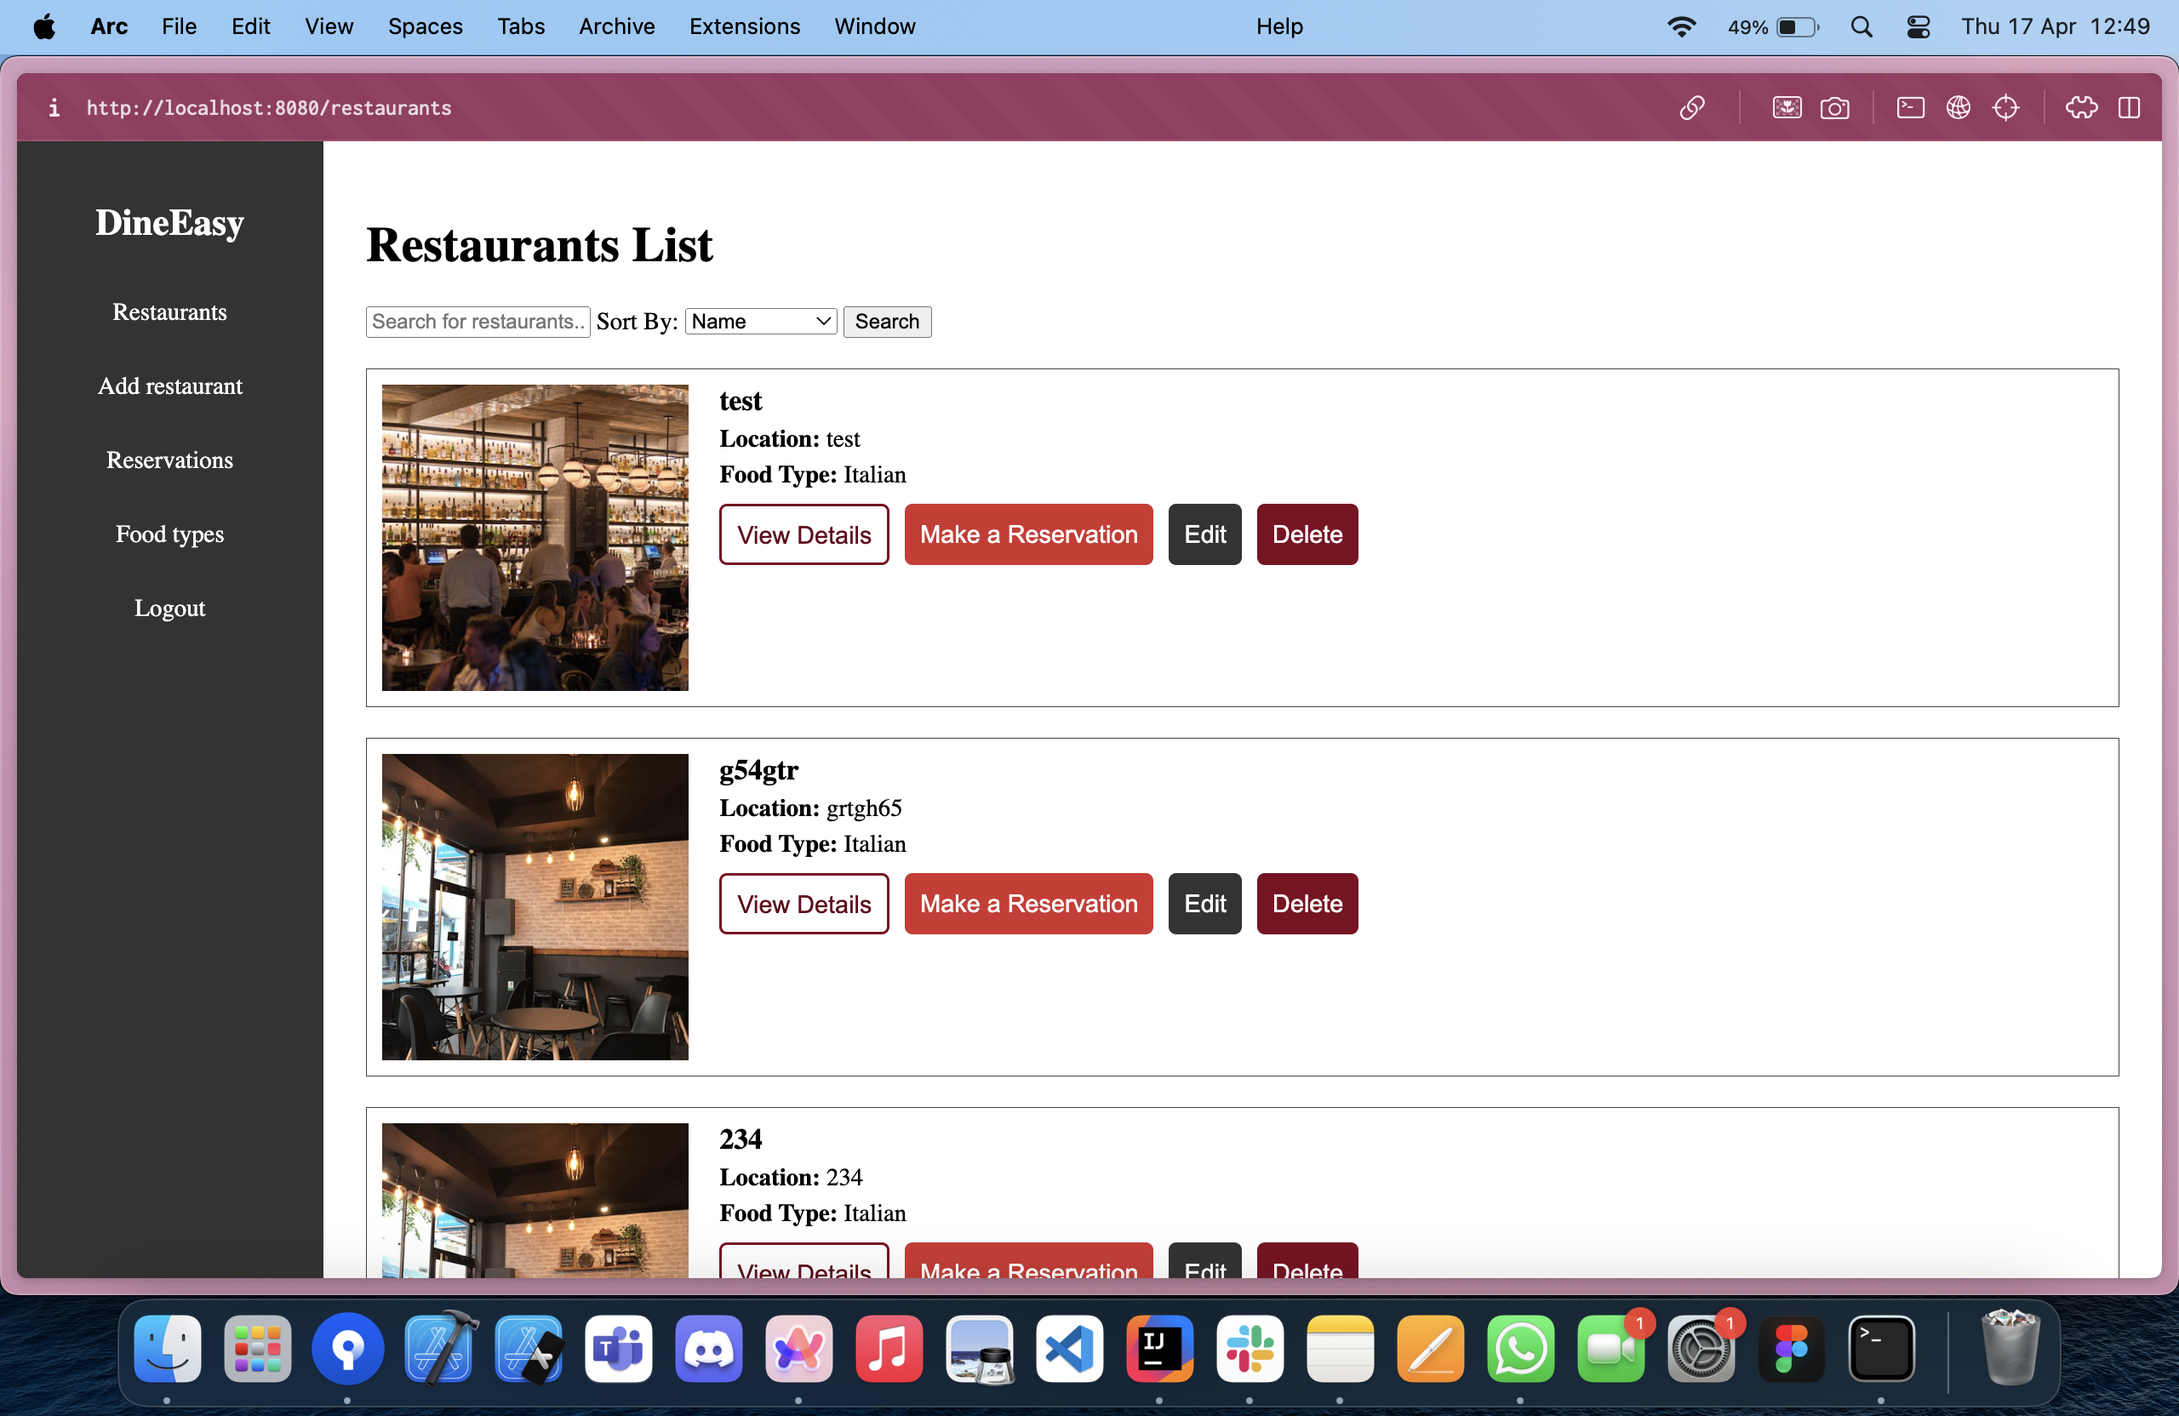
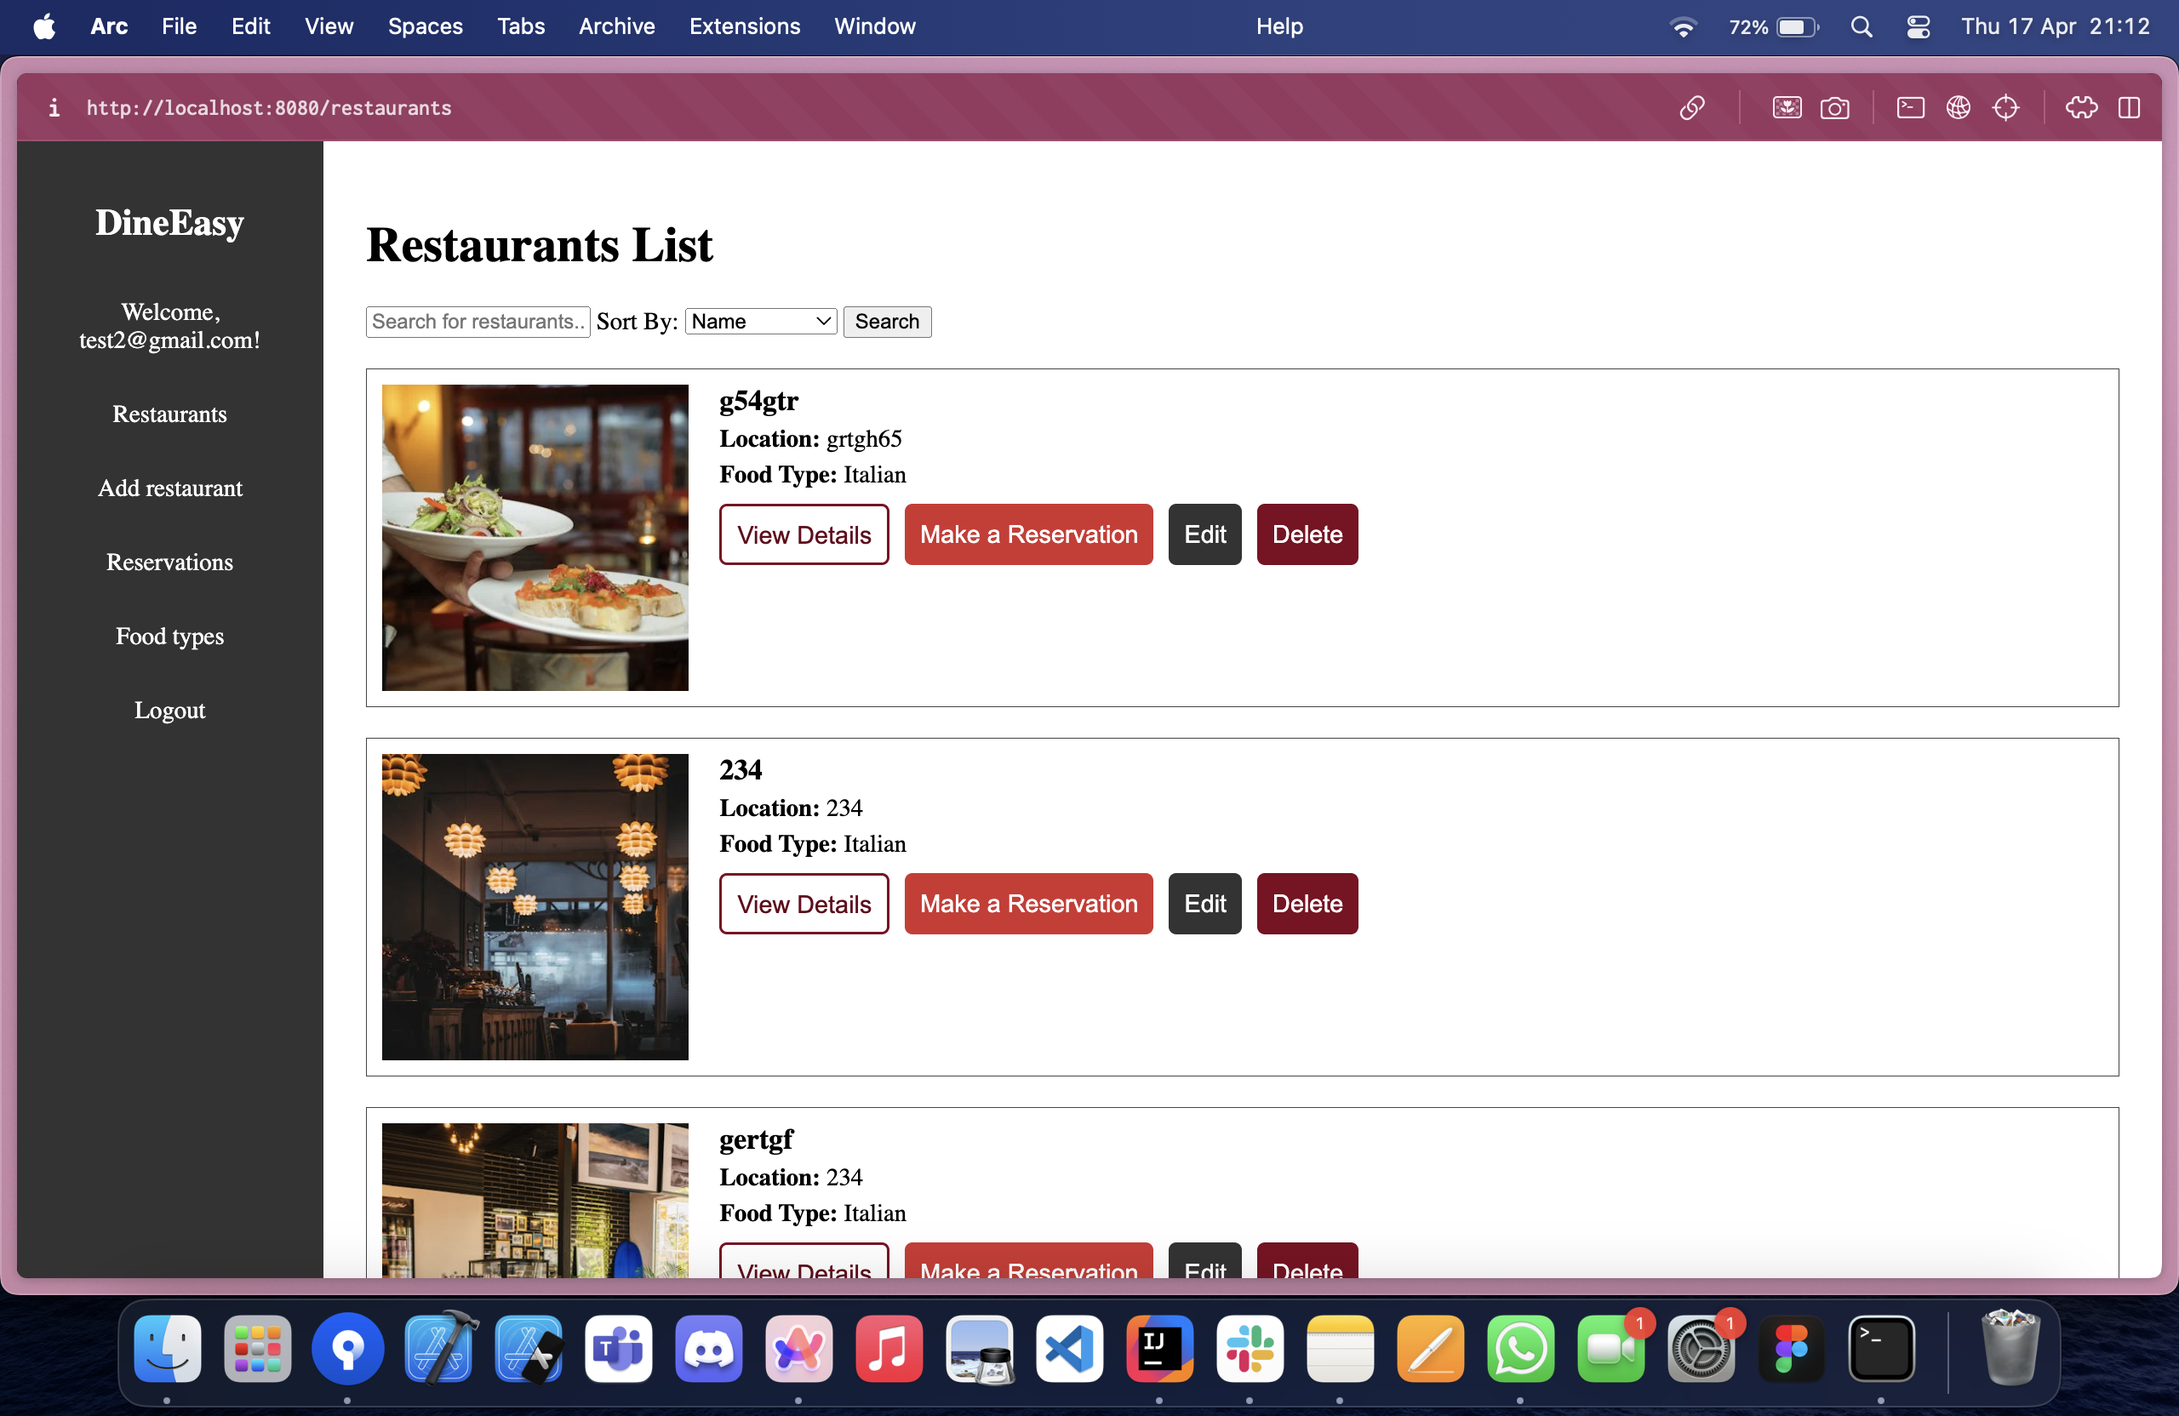
last fixes on auth + readme

diff --git a/src/main/java/com/restaurant/reservation/SecurityConfig.java b/src/main/java/com/restaurant/reservation/SecurityConfig.java
@@ -1,46 +1,72 @@
 package com.restaurant.reservation;
 
 import com.restaurant.reservation.service.CustomUserDetailsService;
+import jakarta.servlet.ServletException;
+import jakarta.servlet.http.HttpServletRequest;
+import jakarta.servlet.http.HttpServletResponse;
 import org.springframework.beans.factory.annotation.Autowired;
 import org.springframework.context.annotation.Bean;
 import org.springframework.context.annotation.Configuration;
 import org.springframework.security.authentication.AuthenticationManager;
+import org.springframework.security.authentication.dao.DaoAuthenticationProvider;
 import org.springframework.security.config.Customizer;
 import org.springframework.security.config.annotation.authentication.configuration.AuthenticationConfiguration;
 import org.springframework.security.config.annotation.web.builders.HttpSecurity;
 import org.springframework.security.config.annotation.web.configuration.EnableWebSecurity;
 import org.springframework.security.config.annotation.web.configurers.AbstractHttpConfigurer;
+import org.springframework.security.core.Authentication;
 import org.springframework.security.crypto.bcrypt.BCryptPasswordEncoder;
 import org.springframework.security.crypto.password.PasswordEncoder;
 import org.springframework.security.web.SecurityFilterChain;
+import org.springframework.security.web.authentication.AuthenticationFailureHandler;
+import org.springframework.security.web.authentication.AuthenticationSuccessHandler;
 import org.springframework.security.web.authentication.logout.CookieClearingLogoutHandler;
+import org.springframework.stereotype.Component;
+
+import java.io.IOException;
 
 @Configuration
 @EnableWebSecurity
 public class SecurityConfig {
-
-
     private CustomUserDetailsService customUserDetailsService;
     @Autowired
     public SecurityConfig(CustomUserDetailsService customUserDetailsService) {
         this.customUserDetailsService = customUserDetailsService;
     }
     @Bean
-    public SecurityFilterChain securityFilterChain(HttpSecurity http) throws Exception {
+    public SecurityFilterChain securityFilterChain(HttpSecurity http, CustomAuthenticationSuccessHandler successHandler, CustomAuthenticationFailureHandler failureHandler) throws Exception {
         http
                 .csrf(AbstractHttpConfigurer::disable)
                 .authorizeHttpRequests(
                         auth -> auth
                                 .anyRequest().permitAll()
-                        // .requestMatchers("/auth/login", "/auth/register").permitAll()
+                )
+                .formLogin(form -> form
+                        .loginPage("/auth/login")
+                        .loginProcessingUrl("/auth/login") // POST request path
+                        .successHandler(successHandler)
+                        .failureHandler(failureHandler)
+                        .permitAll()
                 )
                 .logout(logout -> logout
+                        .logoutUrl("/auth/logout")
+                        .logoutSuccessUrl("/auth/login?logout")
                         .addLogoutHandler(securityContextLogoutHandler())
-                        .logoutSuccessUrl("/auth/login")
                         .deleteCookies("JSESSIONID")
+                        .invalidateHttpSession(true)
+                        .clearAuthentication(true)
+                        .permitAll()
                 )
                 .httpBasic(Customizer.withDefaults());
         return http.build();
+    }
+
+    @Bean
+    public DaoAuthenticationProvider authenticationProvider() {
+        DaoAuthenticationProvider provider = new DaoAuthenticationProvider();
+        provider.setUserDetailsService(customUserDetailsService);
+        provider.setPasswordEncoder(passwordEncoder());
+        return provider;
     }
 
     @Bean
@@ -56,5 +82,26 @@ public class SecurityConfig {
     @Bean
     public CookieClearingLogoutHandler securityContextLogoutHandler() {
         return new CookieClearingLogoutHandler("JSESSIONID");
+    }
+
+    @Component
+    public static class CustomAuthenticationSuccessHandler implements AuthenticationSuccessHandler {
+        @Override
+        public void onAuthenticationSuccess(HttpServletRequest request, HttpServletResponse response, Authentication authentication) throws IOException, ServletException {
+            response.sendRedirect("/restaurants"); // Redirect to restaurants on success
+
+        }
+    }
+
+    @Component
+    public static class CustomAuthenticationFailureHandler implements AuthenticationFailureHandler {
+
+        @Override
+        public void onAuthenticationFailure(HttpServletRequest request,
+                                            HttpServletResponse response,
+                                            org.springframework.security.core.AuthenticationException exception)
+                throws IOException, ServletException {
+            response.sendRedirect("/auth/login?error=" + exception.getMessage());
+        }
     }
 }

diff --git a/micro-services/auth-service/src/main/java/com/restaurant/reservation/authservice/controller/AuthController.java b/micro-services/auth-service/src/main/java/com/restaurant/reservation/authservice/controller/AuthController.java
@@ -21,8 +21,6 @@ import org.springframework.web.bind.annotation.RequestParam;
 import org.springframework.web.util.UriUtils;
 
 import java.nio.charset.StandardCharsets;
-import java.util.HashMap;
-import java.util.Map;
 import java.util.Optional;
 
 @Controller
@@ -39,62 +37,45 @@ public class AuthController {
     @Autowired
     private CustomUserDetailsService customUserDetailsService;
 
-    @PostMapping("/login")
-    public Map<String, String> loginUser(
-            @RequestParam String email,
-            @RequestParam String password) {
+    @GetMapping("/login")
+    public String login() {
+        return "login";
+    }
 
-        Optional<User> user = userService.getUserByEmail(email);
-        Map<String, String> response = new HashMap<>();
+    @GetMapping("/register")
+    public String register(
+            @RequestParam(value = "error", required = false) String error,
+            @RequestParam(value = "email", required = false) String email,
+            Model model) {
 
-        if (user.isEmpty()) {
-            response.put("error", "Email not found");
-            return response;
+        log.info("Registering new user: {}", email);
+        if(email != null && error.equals("email")) {
+            model.addAttribute("email", email);
         }
 
-        if (!passwordEncoder.matches(password, user.get().getPassword())) {
-            response.put("error", "Invalid password");
-            return response;
-        }
+        log.info("Registering new user: {}", model);
 
-        log.info("Fetching User By Email: {}", user);
-
-        Authentication authentication = authenticationManager.authenticate(
-                new UsernamePasswordAuthenticationToken(email, password)
-        );
-        SecurityContextHolder.getContext().setAuthentication(authentication);
-
-        response.put("message", "Login successful");
-        response.put("user", user.get().getEmail());
-        return response;
+        return "register";
     }
 
     @PostMapping("/register")
-    public Map<String, String> registerUser(
+    public String registerUser(
             @RequestParam String email,
             @RequestParam String name,
             @RequestParam String phone,
             @RequestParam String password) {
 
-        Map<String, String> response = new HashMap<>();
-
-        if (userService.getUserByEmail(email).isPresent()) {
-            response.put("error", "Email already in use");
-            return response;
+        boolean userExists = userService.getUserByEmail(email).isPresent();
+        log.info(userExists ? "User exists" : "User not found");
+        if (!userExists) {
+            User user = userService.addUser(new User(name, email, phone, password));
+            log.info("User registered: {}", user);
+            return "redirect:/auth/login";
+        } else {
+            return "redirect:/auth/register?error=email&email=" + UriUtils.encode(email, StandardCharsets.UTF_8);
         }
-
-        User user = userService.addUser(new User(name, email, phone, password));
-        response.put("message", "User registered successfully");
-        response.put("user", user.getEmail());
-
-        return response;
     }
 
-    @PostMapping("/logout")
-    public Map<String, String> logout(HttpServletRequest request) {
-        SecurityContextHolder.clearContext();
-        Map<String, String> response = new HashMap<>();
-        response.put("message", "Logged out successfully");
-        return response;
-    }
+    @GetMapping("/logout")
+    public String logout() { return "logout"; }
 }

diff --git a/src/main/java/com/restaurant/reservation/controller/AuthController.java b/src/main/java/com/restaurant/reservation/controller/AuthController.java
@@ -42,36 +42,6 @@ public class AuthController {
         return "login";
     }
 
-    @PostMapping("/login")
-    public String loginUser(
-            @RequestParam String email,
-            @RequestParam String password,
-            HttpServletRequest request) {
-
-        Optional<User> user = userService.getUserByEmail(email);
-
-        log.info("Fetching User By Email: {}", user);
-        if(user.isEmpty())
-            return "redirect:/auth/register?error=email&email=" + UriUtils.encode(email, StandardCharsets.UTF_8);
-        else {
-            log.info("Password {}, hashed passowrd {}", passwordEncoder.encode(password), user.get().getPassword());
-            if (!passwordEncoder.matches(password, user.get().getPassword())) {
-                return "redirect:/auth/login?error=" + UriUtils.encode("This email/password combination is not correct", StandardCharsets.UTF_8);
-            } else {
-                log.info("User logged: {}", user);
-
-                Authentication authentication = authenticationManager.authenticate(new UsernamePasswordAuthenticationToken(
-                        email, password
-                ));
-
-                SecurityContextHolder.getContext().setAuthentication(authentication);
-                    return "redirect:/restaurants";
-
-            }
-        }
-
-    }
-
     @GetMapping("/register")
     public String register(
             @RequestParam(value = "error", required = false) String error,
@@ -95,13 +65,14 @@ public class AuthController {
             @RequestParam String phone,
             @RequestParam String password) {
 
-        User user = userService.addUser(new User(name, email, phone, password));
-
-        log.info("User registered: {}", user);
-        if (user != null) {
-            return "redirect:/restaurants";
+        boolean userExists = userService.getUserByEmail(email).isPresent();
+        log.info(userExists ? "User exists" : "User not found");
+        if (!userExists) {
+            User user = userService.addUser(new User(name, email, phone, password));
+            log.info("User registered: {}", user);
+            return "redirect:/auth/login";
         } else {
-            return "redirect:/register?error=email&email=" + UriUtils.encode(email, StandardCharsets.UTF_8);
+            return "redirect:/auth/register?error=email&email=" + UriUtils.encode(email, StandardCharsets.UTF_8);
         }
     }
 

diff --git a/src/main/java/com/restaurant/reservation/WebConfig.java b/src/main/java/com/restaurant/reservation/WebConfig.java
@@ -1,13 +1,27 @@
 package com.restaurant.reservation;
 
 import org.springframework.context.annotation.Configuration;
+import org.springframework.web.servlet.config.annotation.InterceptorRegistry;
 import org.springframework.web.servlet.config.annotation.ViewResolverRegistry;
 import org.springframework.web.servlet.config.annotation.WebMvcConfigurer;
 
 @Configuration
 public class WebConfig implements WebMvcConfigurer {
+    public WebConfig(com.restaurant.reservation.middleware.LoginRequiredInterceptor loginRequiredInterceptor) {
+        this.loginRequiredInterceptor = loginRequiredInterceptor;
+    }
+
     @Override
     public void configureViewResolvers(ViewResolverRegistry registry) {
         registry.jsp("/WEB-INF/views/", ".jsp");
+    }
+
+    private final com.restaurant.reservation.middleware.LoginRequiredInterceptor loginRequiredInterceptor;
+
+    @Override
+    public void addInterceptors(InterceptorRegistry registry) {
+        registry.addInterceptor(loginRequiredInterceptor)
+                .addPathPatterns("/restaurants/**", "/reservation/**", "/foodtypes/**") // secure routes
+                .excludePathPatterns("/auth/**", "/css/**", "/js/**", "/restaurants"); // public stuff
     }
 }

diff --git a/src/main/java/com/restaurant/reservation/middleware/LoginRequiredInterceptor.java b/src/main/java/com/restaurant/reservation/middleware/LoginRequiredInterceptor.java
@@ -1,0 +1,27 @@
+package com.restaurant.reservation.middleware;
+
+import jakarta.servlet.http.HttpServletRequest;
+import jakarta.servlet.http.HttpServletResponse;
+import org.springframework.security.core.Authentication;
+import org.springframework.security.core.context.SecurityContextHolder;
+import org.springframework.stereotype.Component;
+import org.springframework.web.servlet.HandlerInterceptor;
+
+@Component
+public class LoginRequiredInterceptor implements HandlerInterceptor {
+
+    @Override
+    public boolean preHandle(HttpServletRequest request, HttpServletResponse response, Object handler) throws Exception {
+
+        Authentication auth = SecurityContextHolder.getContext().getAuthentication();
+
+        boolean isLoggedIn = auth != null && auth.isAuthenticated() && !"anonymousUser".equals(auth.getPrincipal());
+
+        if (!isLoggedIn) {
+            response.sendRedirect("/auth/login");
+            return false; // block the request
+        }
+
+        return true; // continue to controller
+    }
+}

diff --git a/micro-services/auth-service/src/main/java/com/restaurant/reservation/authservice/repository/UserRepository.java b/micro-services/auth-service/src/main/java/com/restaurant/reservation/authservice/repository/UserRepository.java
@@ -10,4 +10,3 @@ import java.util.Optional;
 public interface UserRepository extends JpaRepository<User, Long> {
     Optional<User> findByEmail(String email);
 }
-

diff --git a/README.md b/README.md
@@ -87,8 +87,6 @@ Java, Spring Boot, Spring Cloud, Spring Security, Spring Data JPA, Eureka, Sprin
 ![Pagination](screenshots/addrest.png)
 ![Pagination](screenshots/reservations.png)
 ![Pagination](screenshots/food.png)
-![Pagination](screenshots/login.png)
-![Pagination](screenshots/register.png)
 
 ---
 
@@ -100,11 +98,23 @@ Java, Spring Boot, Spring Cloud, Spring Security, Spring Data JPA, Eureka, Sprin
 ---
 
 ### **🔐 Security**
-- Configured with Spring Security (JWT or JDBC-based login)
-- Endpoints are protected accordingly
-📸 Screenshot of login page or token response
-📸 SecurityConfig.java file
-TODO!!!!!!!!!
+- Configured Spring Security using form-based authentication with session management.
+- Protected routes via LoginRequiredInterceptor for custom access control.
+- Auth flow includes:
+  - /auth/login for login (custom JSP page).
+  - /auth/register for registration.
+  - /auth/logout for logout with session invalidation.
+- On successful login, user is redirected to /restaurants.
+- Spring SecurityFilterChain is configured programmatically with:
+- CustomAuthenticationSuccessHandler and CustomAuthenticationFailureHandler.
+- **BCryptPasswordEncoder** for secure password hashing.
+- Manual session validation via SecurityContextHolder inside a custom interceptor.
+
+![Pagination](screenshots/login.png)
+![Pagination](screenshots/register.png)
+![Pagination](screenshots/securityconfig.png)
+![Pagination](screenshots/unlogged.png)
+
 ---
 
 ### **🧱 Microservices**
